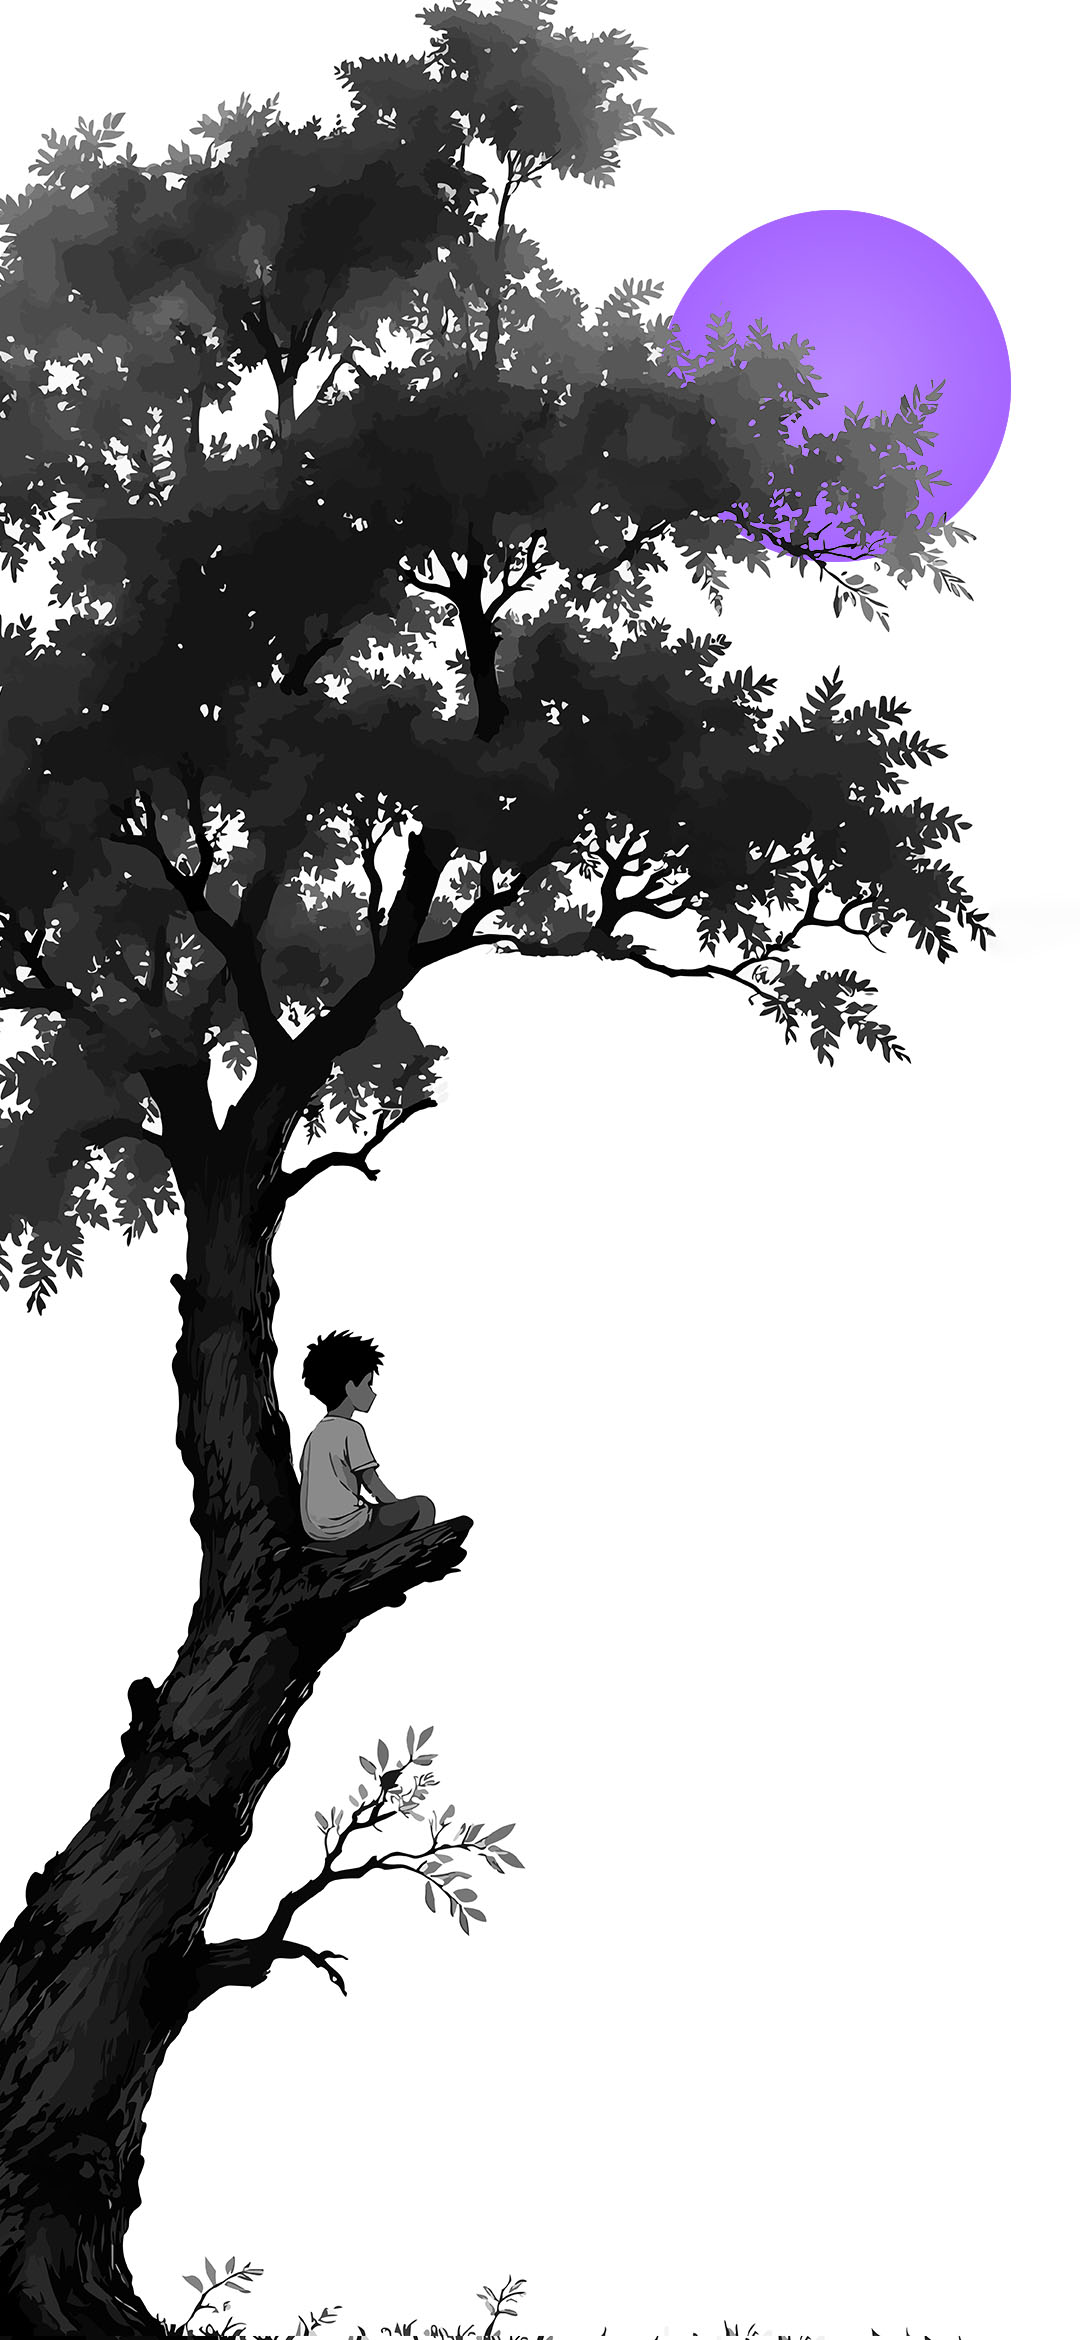
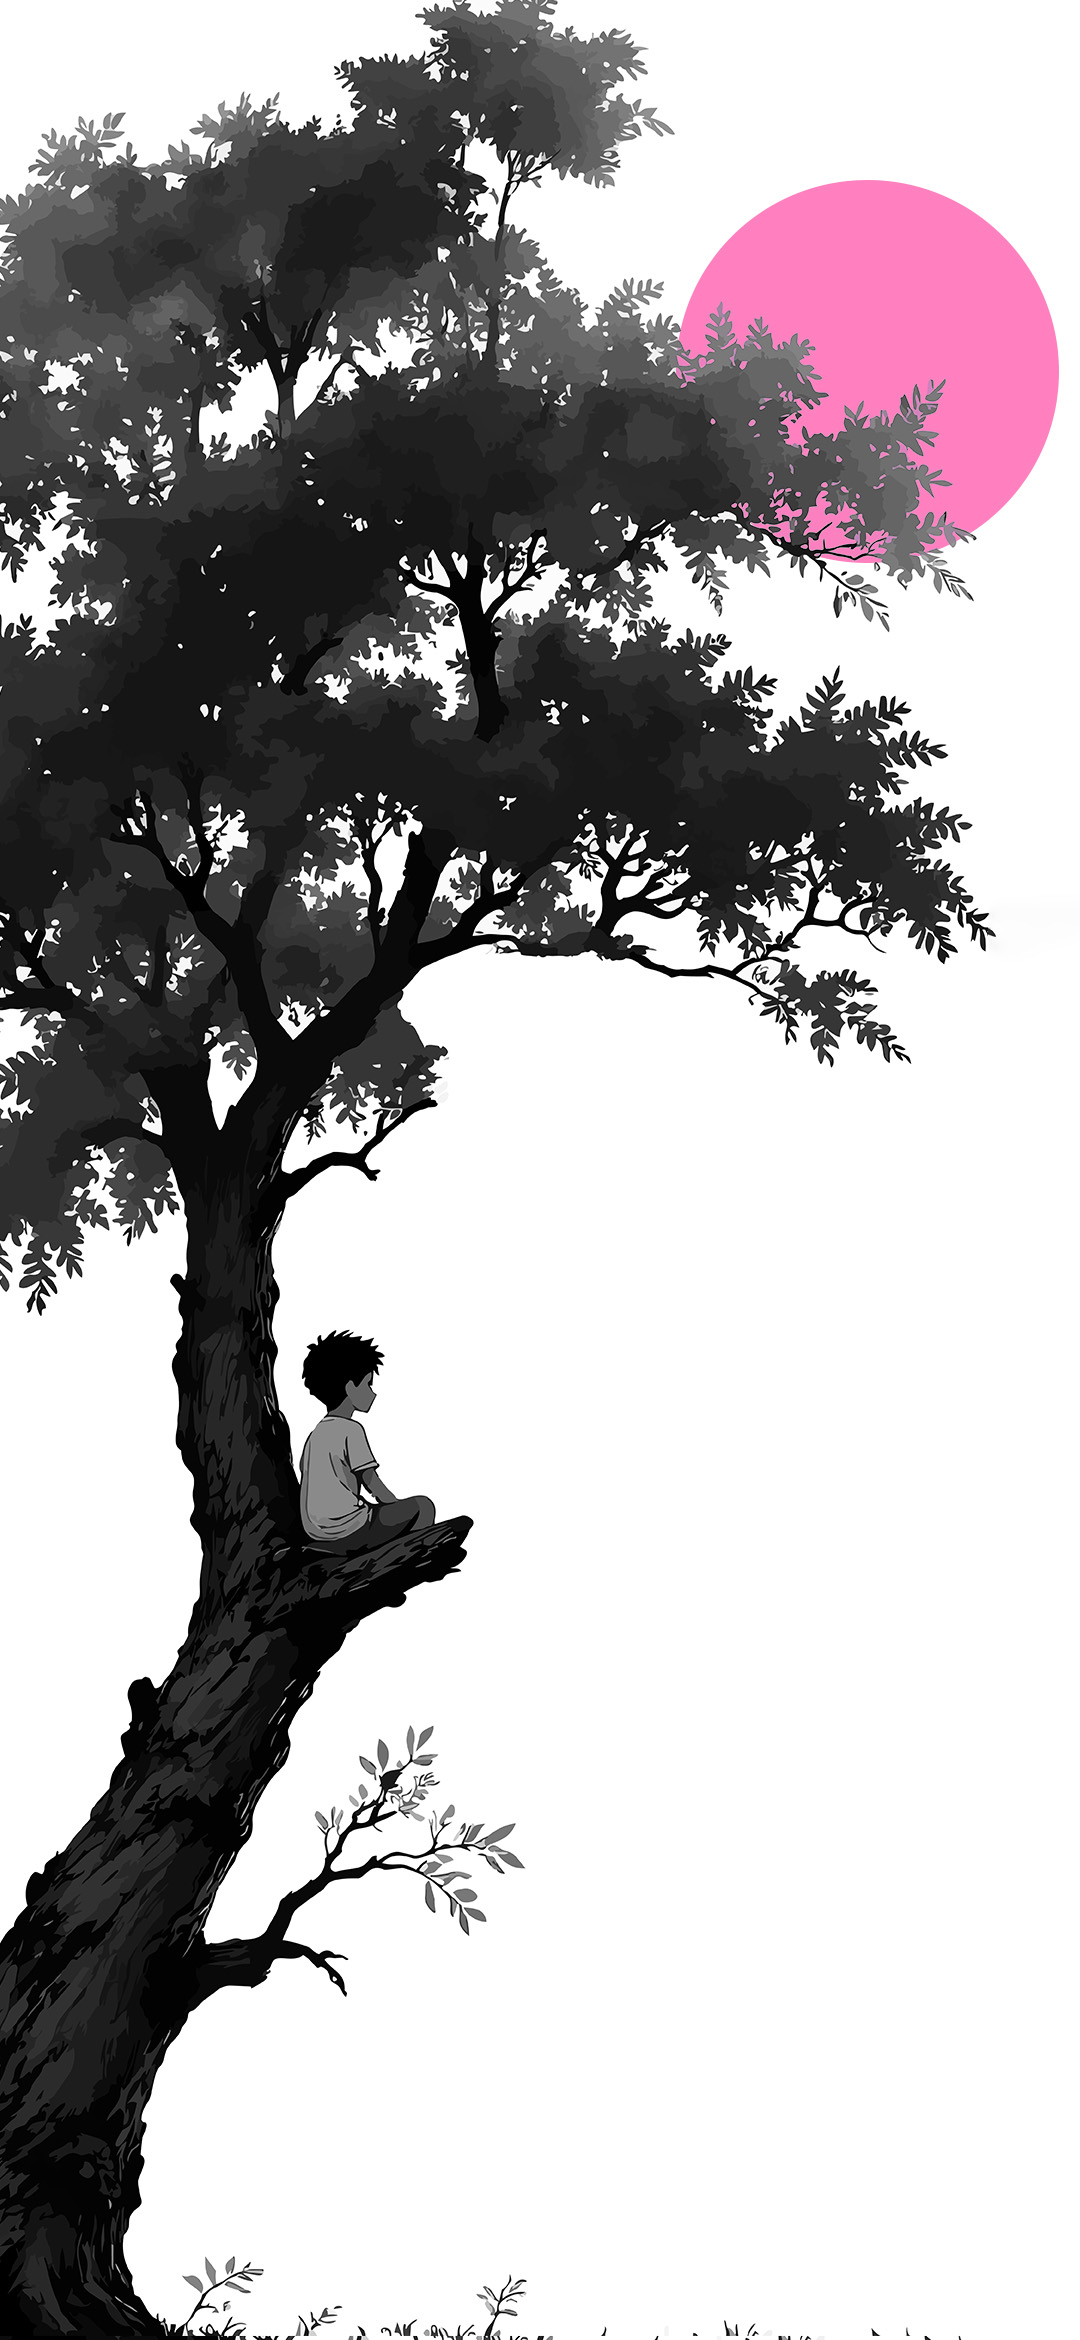
add:wallpaperFontConfig Wallpaper full design

Changed region(s): [[0.6111, 0.0624, 0.9778, 0.2496]]

diff --git a/app/constants/wallpaperFontConfig.ts b/app/constants/wallpaperFontConfig.ts
@@ -420,19 +420,19 @@ const wallpaperFontConfig: Record<number, {
     applistCbg: {backgroundColor: '#0C121B00'}, 
  },
  10:{ //Wallpaper/11.jpg
-     // home
-     time: {'fontFamily': 'Poppins-Bold', fontSize: 44,color: '#A666FF',},
-     pm: {'fontFamily': 'Imprima-Regular', fontSize: 16,color: '#FFFFFF',},
-     date: {'fontFamily': 'Imprima-Regular', fontSize: 16,color: '#FFFFFF',},
-     battery: {color: '#FFFFFF'}, 
-     home: {fontFamily: 'UnicaOne-Regular', fontSize: 16,color: 'red'}, 
-     icon: { color: '#A2B9D9'}, 
-     don: {'fontFamily': 'Imprima-Regular',color: '#4C6C99'}, 
-     footer: {'fontFamily': 'Imprima-Regular',color: '#FFFFFF'}, 
-     leave: {'fontFamily': 'Imprima-Regular',color: '#4C6C99'}, 
-     bottom: { backgroundColor: '#A2B9D933'}, 
-     dialer: {'fontFamily': 'Imprima-Regular', fontSize: 16, color: '#FFFFFF'}, 
-     alpha: {'fontFamily': 'Poppins-Regular',color: '#DADFE5'}, 
+      // home
+     time: {'fontFamily': 'Goldman-Regular', fontSize: 40,color: '#FF0080',},
+     pm: {'fontFamily': 'UnicaOne-Regular', fontSize: 16,color: '#FF0080',},
+     date: {'fontFamily': 'UnicaOne-Regular', fontSize: 13,color: '#FF0080',},
+     battery: {color: '#FF0080'}, 
+     home: {fontFamily: 'UnicaOne-Regular', fontSize: 18,color: '#FF0080'}, 
+     icon: { color: '#FF0080'}, 
+     don: {'fontFamily': 'UnicaOne-Regular',fontSize: 12,color: '#FF0080',textShadowColor: '#FFFFFF', textShadowOffset: {width: 1, height: 1}, textShadowRadius: 1}, 
+     footer: {'fontFamily': 'UnicaOne-Regular',fontSize: 14,color: '#FF0080', textShadowColor: '#FFFFFF', textShadowOffset: {width: 1, height: 1}, textShadowRadius: 1}, 
+     leave: {'fontFamily': 'UnicaOne-Regular',fontSize: 12,color: '#FF0080', textShadowColor: '#FFFFFF', textShadowOffset: {width: 1, height: 1}, textShadowRadius: 1}, 
+     bottom: { backgroundColor: '#132C4D33',borderColor: '#D4CEFC80'}, 
+     dialer: {'fontFamily': 'UnicaOne-Regular', fontSize: 16, color: '#FF007F'}, 
+     alpha: {'fontFamily': 'Poppins-Regular',color: '#FF007F'}, 
     //  modal
     modalbg: {backgroundColor: '#131B27'}, 
       open: {color: '#DBDFE5'}, 
@@ -448,27 +448,28 @@ const wallpaperFontConfig: Record<number, {
       bordert: {borderColor: '#434C59'}, 
       quitbg: {backgroundColor: '#212D41'}, 
     //  allApps
-    searchbg: {backgroundColor: '#FFFFFF26'}, 
-    searchi: {fontFamily: 'Imprima-Regular', fontSize: 16,color: '#A2B9D9'}, 
-    allappt: {fontFamily: 'Imprima-Regular', fontSize: 16,color: '#FFFFFF'}, 
+    searchbg: {backgroundColor: '#FFFFFF1A'}, 
+    searchi: {color: '#E6EBF2'}, 
+    allappt: {fontFamily: 'UnicaOne-Regular', fontSize: 16,color: '#FFFFFF'}, 
     allappi: {color: '#A2B9D9'}, 
     header: {fontFamily: 'Imprima-Regular', fontSize: 16,color: '#FFFFFF'}, 
-    applist: {fontFamily: 'Imprima-Regular', fontSize: 18,color: '#FFFFFF'}, 
-    applistbg: {backgroundColor: '#0A223300'}, 
-    appdu: {fontFamily: 'Poppins-Regular', fontSize: 10,color: '#FFFFFF'}, 
+    applist: {fontFamily: 'UnicaOne-Regular', fontSize: 18,color: '#FFFFFF'}, 
+    applistbg: {backgroundColor: '#132C4D00'}, 
+    appdu: {fontFamily: 'UnicaOne-Regular', fontSize: 10,color: '#FFFFFF'}, 
     alphaside: {fontFamily: 'Poppins-Regular',color: '#DADFE5'}, 
-    tikbg: {backgroundColor: '#FFFFFF26'},
+    tikbg: {backgroundColor: '#FFFFFF1A'},
+    wallbg: {backgroundColor: '#132C4D99'},
 // category
-    searchCbg: {backgroundColor: '#FFFFFF26'}, 
-    searchCi: {color: '#A2B9D9'}, 
-    searchCt: {fontFamily: 'Poppins-Regular', fontSize: 16,color: '#A2B9D9'}, 
-    appC: {fontFamily: 'Imprima-Regular', fontSize: 18,color: '#FFFFFF'}, 
+    searchCbg: {backgroundColor: '#FFFFFF1A'}, 
+    searchCi: {color: '#E6EBF2'}, 
+    searchCt: {fontFamily: 'UnicaOne-Regular', fontSize: 16,color: '#E6EBF2'}, 
+    appC: {fontFamily: 'UnicaOne-Regular', fontSize: 18,color: '#FFFFFF'}, 
     appi: {color: '#A2B9D9'}, 
-    appCn: {fontFamily: 'Imprima-Regular', fontSize: 18,color: '#FFFFFF'}, 
+    appCn: {fontFamily: 'Imprima-Regular', fontSize: 14,color: '#FFFFFF'}, 
     appCi: {color: '#A2B9D9'}, 
-    applistC: {fontFamily: 'Imprima-Regular', fontSize: 18,color: '#FFFFFF'}, 
-    applistCdu: {fontFamily: 'Imprima-Regular', fontSize: 12,color: '#FFFFFF'}, 
-    applistCbg: {backgroundColor: '#0C121B00'}, 
+    applistC: {fontFamily: 'UnicaOne-Regular', fontSize: 18,color: '#FFFFFF'}, 
+    applistCdu: {fontFamily: 'UnicaOne-Regular', fontSize: 12,color: '#FFFFFF'}, 
+    applistCbg: {backgroundColor: '#132C4D00'},  
  },
  11:{ //Wallpaper/12.jpg
        // home
@@ -522,7 +523,58 @@ const wallpaperFontConfig: Record<number, {
     applistCdu: {fontFamily: 'Poppins-Regular', fontSize: 12,color: '#26E500'}, 
     applistCbg: {backgroundColor: ''}, 
  },
- 12:{},
+ 12:{//Wallpaper/13.jpg
+   // home
+     time: {'fontFamily': 'Sacramento-Regular', fontSize: 40,color: '#FF59A5',},
+     pm: {'fontFamily': 'LobsterTwo-Regular', fontSize: 16,color: '#FF59A5',},
+     date: {'fontFamily': 'LobsterTwo-Regular', fontSize: 13,color: '#FF59A5',},
+     battery: {color: '#FF59A5'}, 
+     home: {fontFamily: 'LobsterTwo-Regular', fontSize: 18,color: '#FF59A5',textShadowColor: '#FFF', textShadowOffset: {width: 4, height: 4}, textShadowRadius: 4}, 
+     icon: { color: '#C6C7F9'}, 
+     don: {'fontFamily': 'LobsterTwo-Regular',color: '#C5C6FF'}, 
+     footer: {'fontFamily': 'LobsterTwo-Regular',color: '#FF59A5'}, 
+     leave: {'fontFamily': 'LobsterTwo-Regular',color: '#FEB3CF'}, 
+     bottom: { backgroundColor: '#FEC2FE33',borderColor: '#FEC2FE33',borderWidth: 1}, 
+     dialer: {'fontFamily': 'LobsterTwo-Regular', fontSize: 16, color: '#FF59A5'}, 
+     alpha: {'fontFamily': 'Poppins-Regular',color: '#A37ACC'}, 
+    //  modal
+    modalbg: {backgroundColor: '#131B27'}, 
+      open: {color: '#DBDFE5'}, 
+      appicon: {color: '#1A2B33'}, 
+      select: {color: '#A3B8D9'}, 
+      numberbg: {backgroundColor: '#212C40'}, 
+      number: {color: '#DBDFE5'}, 
+      toggle: {color: '#2E3B4D'}, 
+      togglei: {color: '#5C8BCC'}, 
+      when: {color: '#FFFFFF'}, 
+      remind: {color: '#FFFFFF'}, 
+      quit: {color: '#FFFFFF'}, 
+      bordert: {borderColor: '#434C59'}, 
+      quitbg: {backgroundColor: '#212D41'}, 
+    //  allApps
+    searchbg: {backgroundColor: '#FFFFFF40'}, 
+    searchi: {color: '#FF59A533'}, 
+    allappt: {fontFamily: 'LobsterTwo-Regular', fontSize: 16,color: '#FF59A5'}, 
+    allappi: {color: '#A6A7FF'}, 
+    header: {fontFamily: 'LobsterTwo-Regular', fontSize: 16,color: '#FF59A5'}, 
+    applist: {fontFamily: 'LobsterTwo-Regular', fontSize: 18,color: '#FF59A5'}, 
+    applistbg: {backgroundColor: '#FF59A50D'}, 
+    appdu: {fontFamily: 'LobsterTwo-Regular', fontSize: 10,color: '#FF59A5'}, 
+    alphaside: {fontFamily: 'Poppins-Regular',color: '#FF59A5'}, 
+    tikbg: {backgroundColor: '#FFFFFF40'},
+    wallbg: {backgroundColor: ''},
+// category
+    searchCbg: {backgroundColor: '#FFFFFF40'}, 
+    searchCi: {color: '#FF59A533'}, 
+    searchCt: {fontFamily: 'LobsterTwo-Regular', fontSize: 16,color: '#FF59A533'}, 
+    appC: {fontFamily: 'LobsterTwo-Regular', fontSize: 18,color: '#FF59A5'}, 
+    appi: {color: '#FF59A5'}, 
+    appCn: {fontFamily: 'LobsterTwo-Regular', fontSize: 14,color: '#FF59A5'}, 
+    appCi: {color: '#FF59A5'}, 
+    applistC: {fontFamily: 'LobsterTwo-Regular', fontSize: 18,color: '#FF59A5'}, 
+    applistCdu: {fontFamily: 'LobsterTwo-Regular', fontSize: 12,color: '#FF59A5'}, 
+    applistCbg: {backgroundColor: '#FF59A50D'}, 
+ },
  13:{//Wallpaper/14.jpg
      // home
      time: {'fontFamily': 'Gugi-Regular', fontSize: 40,color: '#A37ACC',},

diff --git a/app/_layout.tsx b/app/_layout.tsx
@@ -43,6 +43,11 @@ export default function Layout() {
     'Shizuru-Regular': require('../assets/fonts/Shizuru-Regular.ttf'),
     'MontserratAlternates-Regular': require('../assets/fonts/MontserratAlternates-Regular.ttf'),
     'UnicaOne-Regular': require('../assets/fonts/UnicaOne-Regular.ttf'),
+    'Goldman-Regular': require('../assets/fonts/Goldman-Regular.ttf'),
+    'Goldman-Bold': require('../assets/fonts/Goldman-Bold.ttf'),
+    'LobsterTwo-Regular': require('../assets/fonts/LobsterTwo-Regular.ttf'),
+    'LobsterTwo-Bold': require('../assets/fonts/LobsterTwo-Bold.ttf'),
+    'Sacramento-Regular': require('../assets/fonts/Sacramento-Regular.ttf'),
   });
 
   useEffect(() => {

diff --git a/app/home.tsx b/app/home.tsx
@@ -598,7 +598,7 @@ export default function Home() {
           <Stack.Screen options={{ headerShown: false }} />
 
           {/* Header: Time, Date, Battery */}
-          <View className={`mt-10 ${wallpaperIndex === 3 || wallpaperIndex === 15 ? 'items-start' : 'items-center'}`}>
+          <View className={`mt-10 ${wallpaperIndex === 3 || wallpaperIndex === 10 || wallpaperIndex === 15 ? 'items-start' : 'items-center'}`}>
             <View className="flex-row items-baseline">
               <Text
                 allowFontScaling={false}